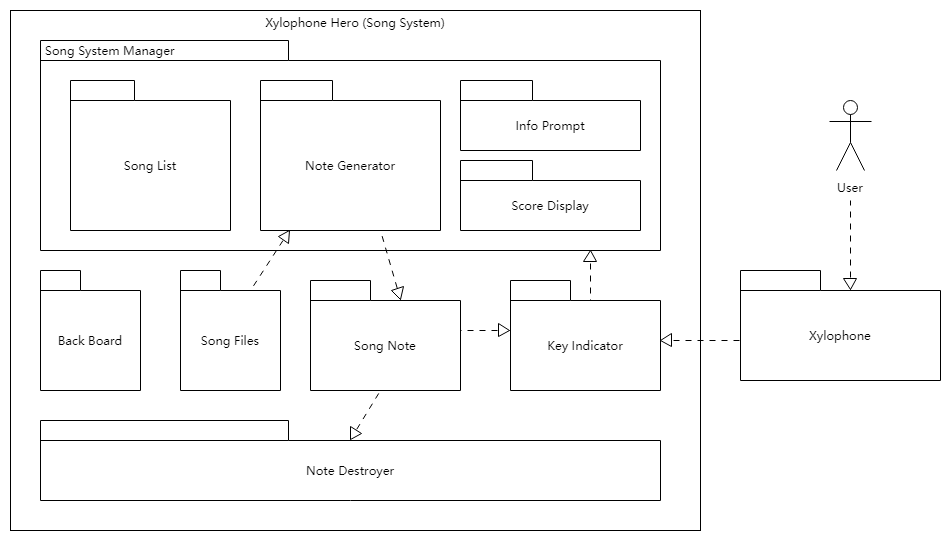
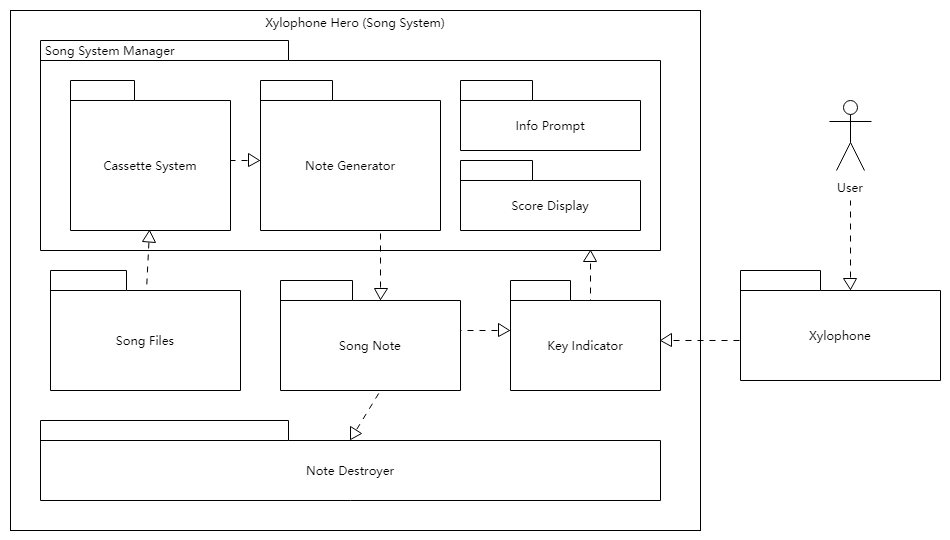
added some documentations for song system and getting started

diff --git a/docs/RoboyXylophoneRecording/SongSystem.rst b/docs/RoboyXylophoneRecording/SongSystem.rst
@@ -14,43 +14,54 @@ Structure
 .. image:: _static/XylophoneHeroStructure.png
 	:alt: Roboy Xylophone Recording Project Structure
 
-The Song System, aka. Xylophone Hero, consists of 4 Parts: song system manager, key indicator, note destroyer and back board. It reads song files from the disk and generate in game playable songs. Users interact with the song system through the xylophone. Details are described below.
+The Song System, aka. Xylophone Hero, consists of 3 Major Parts: **Song System Manager**, **Key Indicator** and **Note Destroyer**. It reads song files from the disk and generate in game playable songs. Users interact with the song system through the xylophone. Details are described below.
 
 Song File
 ~~~~~~~~~~~
 
 The song files are not actual audio recordings of the song (``.mp3``, ``.wav``, etc.). They contain only the sequences of the notes which will be used to generate the notes in the song system. The format is inspired by the ``.sm`` file of `StepMania <https://www.stepmania.com/>`_ which looks as follows::
 
-	1000000
-	0000000
-	0000000
-	0100000
-	0010000
-	0000000
-	0000000
-	1000000
+	100000000000
+	000000000000
+	000000000000
+	010000000000
+	001000000000
+	000000000000
+	000000000000
+	100000000000
 
-Each line represents one beat. There are 7 keys in the xylophone now so each row has 4 digits, each one corresponds to one key. 1 means this key should be played on this beat, 0 means it should not. So the note generator can generate the notes of the song according to this song file.
+Each line represents one beat. There are 12 keys in the xylophone now so each row has 12 digits, each one corresponds to one key. 1 means this key should be played on this beat, 0 means it should not. So the note generator can generate the notes of the song according to this song file.
 
 Song System Manager
 ~~~~~~~~~~~~~~~~~~~~~
 
-Song system Manager is the most important and core part of the song system. It consists of 4 parts: note generator, song list, info prompt and score display. It manages the state of the song system, display useful information, and generate the notes of songs. 
+Song System Manager is the most important and core part of the song system. It consists of 3 parts: **Note Generator**, **Cassette System** and **Score and Feedback System**. And these parts are all organized and managed by the **Song Manager**. The Song System Manager manages the state of the song system, displays useful information, and generates the notes of songs. 
+
+Song Manager
+^^^^^^^^^^^^^^^^^^
+The SongManager mainly manages the state of song playing. When the song system starts, it loads the song files from the designated path, prepares songs for the cassette system. It has functions to switch between state of playing and stop as well as switch songs. These functions also control the Note Generator to generate proper notes. In addition, the Song Manager monitors how good the player plays the xylophone then calculate scores and give proper feedback.
+
+.. ATTENTION::
+	The ``SongManager`` class is a Singleton. Only one instance of this class is allowed. Therefore don't put two song boards in one scene! In the case of multiple environments (like the cinema and STARWARS), either only one environment having the song board or all environments sharing one song board is the correct solution. 
 
 Note Generator
 ^^^^^^^^^^^^^^^^^^
 
-Just as its name indicates, the note generator generates the notes according to the song file. It reads the song file from the designated path, then starts a coroutine, which respawns the notes at a certain rate according to the set BPM (Beats Per Minute). The notes would then fall down. When they reach the corresponding key indicator, the User should play the key.
+Just as its name indicates, the note generator generates the notes according to the song file. It starts a coroutine, which respawns the notes at a certain rate according to the set BPM (Beats Per Minute). The notes then fall down. When they reach the corresponding key indicator, the User should play the key.
 
-Song List
-^^^^^^^^^^^^^^^^^
+Cassette System
+^^^^^^^^^^^^^^^^^^
 
-After the note generator loads the song, the song list would display the titles of the songs. *This function is still work in progess*. 
+We seek to make the song system more interactive, more intuitive and more interesting to play. Therefore, instead of having a song list displaying all songs and player selecting songs and controlling the system by pressing buttons, we decided to use cassettes to represent songs and a cassette player to control the song playing. 
 
-Info Prompt and Score Display
-^^^^^^^^^^^^^^^^^^^^^^^^^^^^^^^
+After the Song Manager loads the songs, it will generate several cassette, each one carries the information of one song, on the desk. The player can use the stick with Roboy's head to grab a cassette and then put it in the cassette player, which will make the Song Manager start the song. 
 
-The Xylophone Hero has a score system. If the user play the correct key at the right time, he/she gains 10 points. If he/she manages to do that continuously, this is called combos. Combos gains more points. The points the user gains and some prompts are displayed in info prompt and score display section.
+There are two buttons above the cassette player. The left one is *Reload Song*. By pressing this button the Song Manager clears the current loaded songs, destroys all existing cassettes, and then loads the songs and generates the cassettes again. This is useful when the player drops some cassettes to the space or can not reach the cassettes for some reasons. The right button is *Eject* button. This makes the cassette player eject the current cassette and stop playing the song.
+
+Score and Feedback System
+^^^^^^^^^^^^^^^^^^^^^^^^^^^^^^
+
+Scores and Feedbacks help players become xylophone masters. When the player keep playing the right keys at the right time, he/she gets *combos*, otherwise he/she gets *misses*. When combos or misses reaches certain level, the player will hear cheers or boos and see texts of praise or disappointment. In addition, the player gets scores with every good hit, and combos make more score per good hit.
 
 Key Indicator
 ~~~~~~~~~~~~~~~~~
@@ -62,17 +73,14 @@ Note Destroyer
 
 The Note Destroyer destroys all game objects with the tag ``SongNote`` which enter its trigger zone. This basically "cleans up" the notes that are not played by the user.
 
-Back Board
-~~~~~~~~~~~~~
+Some Other Things
+~~~~~~~~~~~~~~~~~~~
 
-The song board basically serves as a background for the song system.
+There are two buttons on the left side of the player (when facing the xylophone). One is *Toggle Recording*. This one toggles converting the played notes to midi. The other one is *Toggle Board*. This one shows or hides the song board.
 
-Usage
---------------
-
-Xylophone Hero is hidden in the scene by default. to activate it, press the ``menu`` button on the Vive controller. To disable it, press the ``menu`` button again.
+Under the ``SongSystemManager`` Game Object there is a set of **Control Buttons** which are disabled. They are not used in the release version of Xylophone Hero, but they are good helpers for debugging. When they are enabled, the player or developer can use the keyboard to start, stop, play the previous or play the next song. Of course the player can also interact with these buttons using the sticks.
 
 Current State
 ----------------------
 
-The song system is playable. It can load one song from the designated path and generate the song. The functions of loading multiple songs and selecting songs are not yet finished. Song system controls like start, stop etc. are not implemented either. In addition, the song board, song notes and other elements still use the basic unity cubes, which is not yet ideal. 
+The song system is playable and fun to play. It can load multiple songs from the designated path and generate cassettes for the songs. the cassette system is ready to use. Score and feedback system works fine, but still has room for improvements (better rules, ranking system, etc.). In addition, the models of the song system can be further polished or beautified.

diff --git a/docs/RoboyXylophoneRecording/GettingStarted.rst b/docs/RoboyXylophoneRecording/GettingStarted.rst
@@ -63,7 +63,7 @@ Build the project::
 	catkin_make
 
 Starting the Program
---------------------
+---------------------
 
 Step 1: Launch ROSBridge Server
 ~~~~~~~~~~~~~~~~~~~~~~~~~~~~~~~
@@ -99,3 +99,11 @@ Check the GameObject ROSBridge for the correct ROS Core IP (computer where you s
 
 .. image:: _static/GameObject_ROSBridge.png
 		:alt: GameObject ROSBridge
+
+Extra Softwares for Development
+--------------------------------
+
+Install Blender
+~~~~~~~~~~~~~~~~~
+
+We use Blender to build some of the 3D models in our project. If you want to modify the models or build some new ones, you can download Blender `here <https://www.blender.org/download/>`_, run the downloaded installation program to install blender and then you are ready to go. You can find very good tutorials online. If you are new to blender, `This <https://www.youtube.com/watch?v=JYj6e-72RDs&t=14s>`_ could be a good start.
